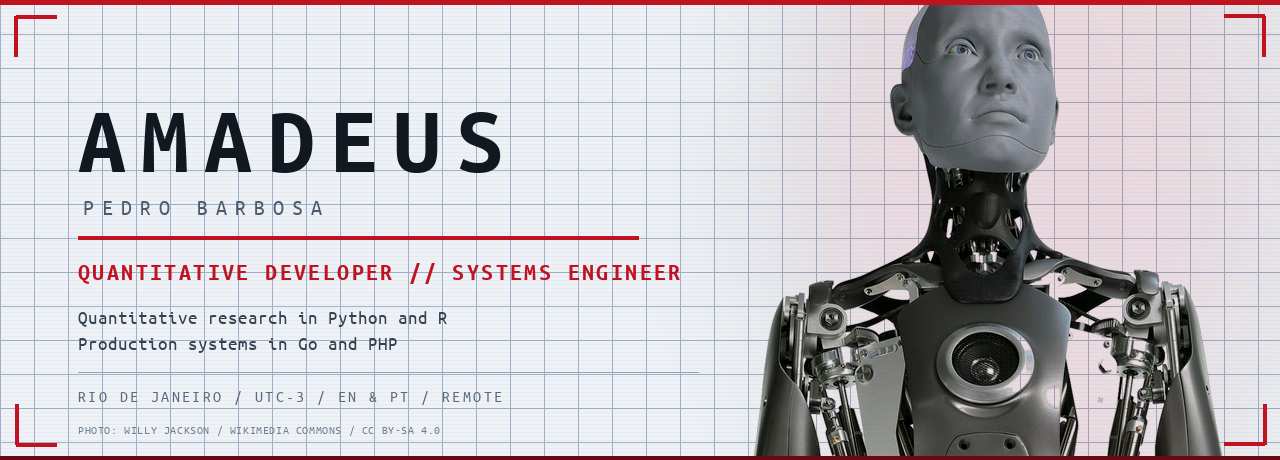
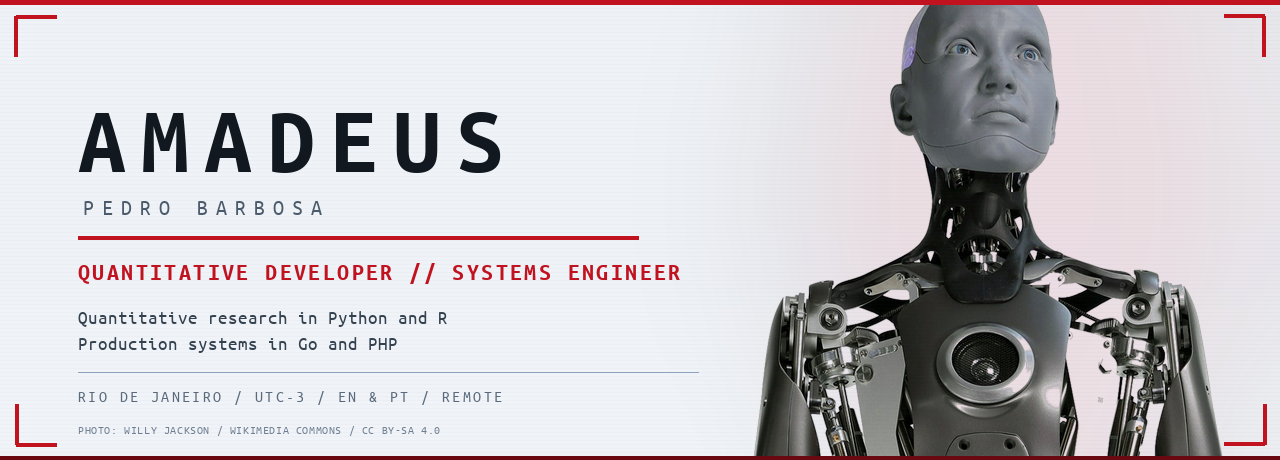
Drop the background grid; self-host the stack with labels
The grid was the dominant texture on the light theme and made every plate look
busy. Removed from all 22 plates and from both banners; the gradient, the
scanlines, the corner brackets and the red rules carry the HUD on their own.

The stack section was rendering empty. The skillicons URLs return 200, but
GitHub's content policy only proxies img src, not source srcset, so a <picture>
whose sources point at an external host is blocked. Every picture block in this
file now points at an asset in this repository, which is the only arrangement
that actually switches theme.

The stack is therefore drawn here: each logo from its simple-icons path, filled
with the official brand colour from the simple-icons catalogue, with the name
underneath -- the penguin now says Linux. Logos that are nearly black, GitHub
and Flask among them, are lightened only in the dark variant, where they would
otherwise disappear into the background.

diff --git a/README.md b/README.md
@@ -99,32 +99,10 @@ ecosystem, with reversible MySQL migrations.
   <source media="(prefers-color-scheme: light)" srcset="./assets/h-stack-light.svg">
   <img src="./assets/h-stack.svg" width="100%" alt="Stack">
 </picture>
-</p>
-
-<p align="center"><b>LANGUAGES</b></p>
-<p align="center">
 <picture>
-  <source media="(prefers-color-scheme: dark)" srcset="https://skillicons.dev/icons?i=go,python,php,js,ts,r,bash&theme=dark">
-  <source media="(prefers-color-scheme: light)" srcset="https://skillicons.dev/icons?i=go,python,php,js,ts,r,bash&theme=light">
-  <img src="https://skillicons.dev/icons?i=go,python,php,js,ts,r,bash&theme=dark" alt="Go, Python, PHP, JavaScript, TypeScript, R, Bash">
-</picture>
-</p>
-
-<p align="center"><b>DATA &amp; ANALYSIS</b></p>
-<p align="center">
-<picture>
-  <source media="(prefers-color-scheme: dark)" srcset="https://skillicons.dev/icons?i=sqlite,postgresql,mongodb,sklearn&theme=dark">
-  <source media="(prefers-color-scheme: light)" srcset="https://skillicons.dev/icons?i=sqlite,postgresql,mongodb,sklearn&theme=light">
-  <img src="https://skillicons.dev/icons?i=sqlite,postgresql,mongodb,sklearn&theme=dark" alt="SQLite, PostgreSQL, MongoDB, scikit-learn">
-</picture>
-</p>
-
-<p align="center"><b>RUNTIME &amp; TOOLING</b></p>
-<p align="center">
-<picture>
-  <source media="(prefers-color-scheme: dark)" srcset="https://skillicons.dev/icons?i=linux,docker,git,github,nodejs,react,flask,vscode&theme=dark">
-  <source media="(prefers-color-scheme: light)" srcset="https://skillicons.dev/icons?i=linux,docker,git,github,nodejs,react,flask,vscode&theme=light">
-  <img src="https://skillicons.dev/icons?i=linux,docker,git,github,nodejs,react,flask,vscode&theme=dark" alt="Linux, Docker, Git, GitHub, Node.js, React, Flask, VS Code">
+  <source media="(prefers-color-scheme: dark)" srcset="./assets/stack.svg">
+  <source media="(prefers-color-scheme: light)" srcset="./assets/stack-light.svg">
+  <img src="./assets/stack.svg" width="100%" alt="Go, Python, PHP, JavaScript, TypeScript, R, Bash · SQLite, PostgreSQL, MongoDB, scikit-learn · Linux, Docker, Git, GitHub, Node.js, React, Flask">
 </picture>
 </p>
 
